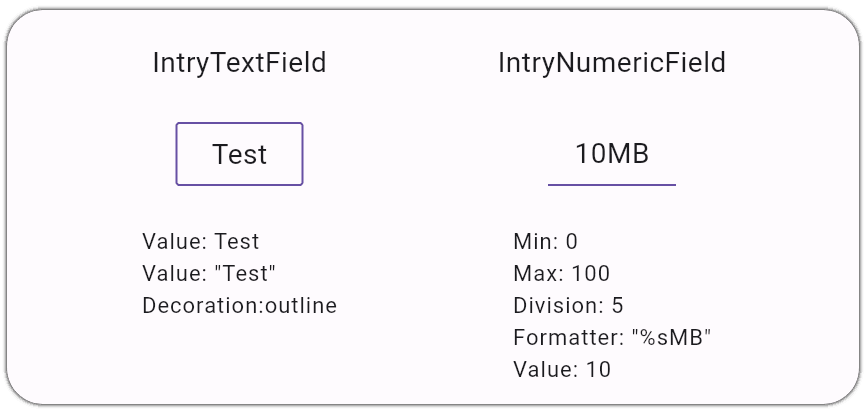
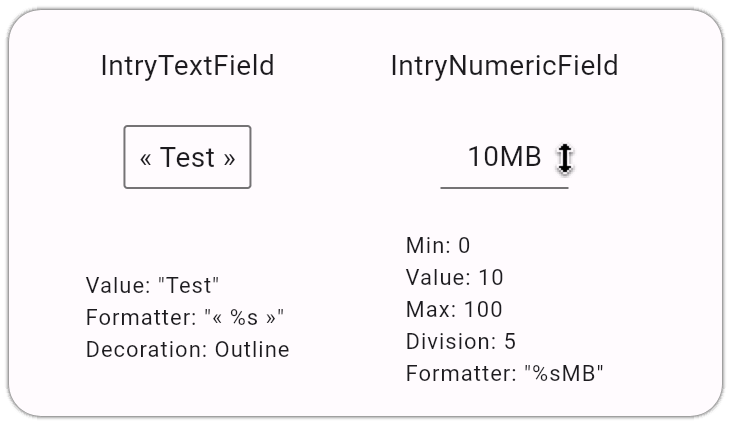
cleanups - update example

diff --git a/example/lib/main.dart b/example/lib/main.dart
@@ -50,14 +50,14 @@ class _MyHomePageState extends State<MyHomePage> {
                 const SizedBox(height: 20),
                 IntryTextField(
                   value: _textValue,
-                  formatter: "«%s»",
+                  formatter: "« %s »",
                   decoration: IntryFieldDecoration.outline(context),
                   onChanged: (String value) =>
                       setState(() => _textValue = value),
                 ),
                 const SizedBox(height: 40),
                 Text(
-                  'Value: "$_textValue"\nFormatter: "«%s»"\nDecoration: Outline',
+                  'Value: "$_textValue"\nFormatter: "« %s »"\nDecoration: Outline',
                   style: Theme.of(context).textTheme.labelSmall,
                 ),
               ],

diff --git a/README.md b/README.md
@@ -38,6 +38,7 @@ String _textValue = "Test";
 
 IntryTextField(
   value: _textValue,
+  formatter: "« %s »",
   decoration: IntryFieldDecoration.outline(context),
   onChanged: (String value) =>
       setState(() => _textValue = value),
